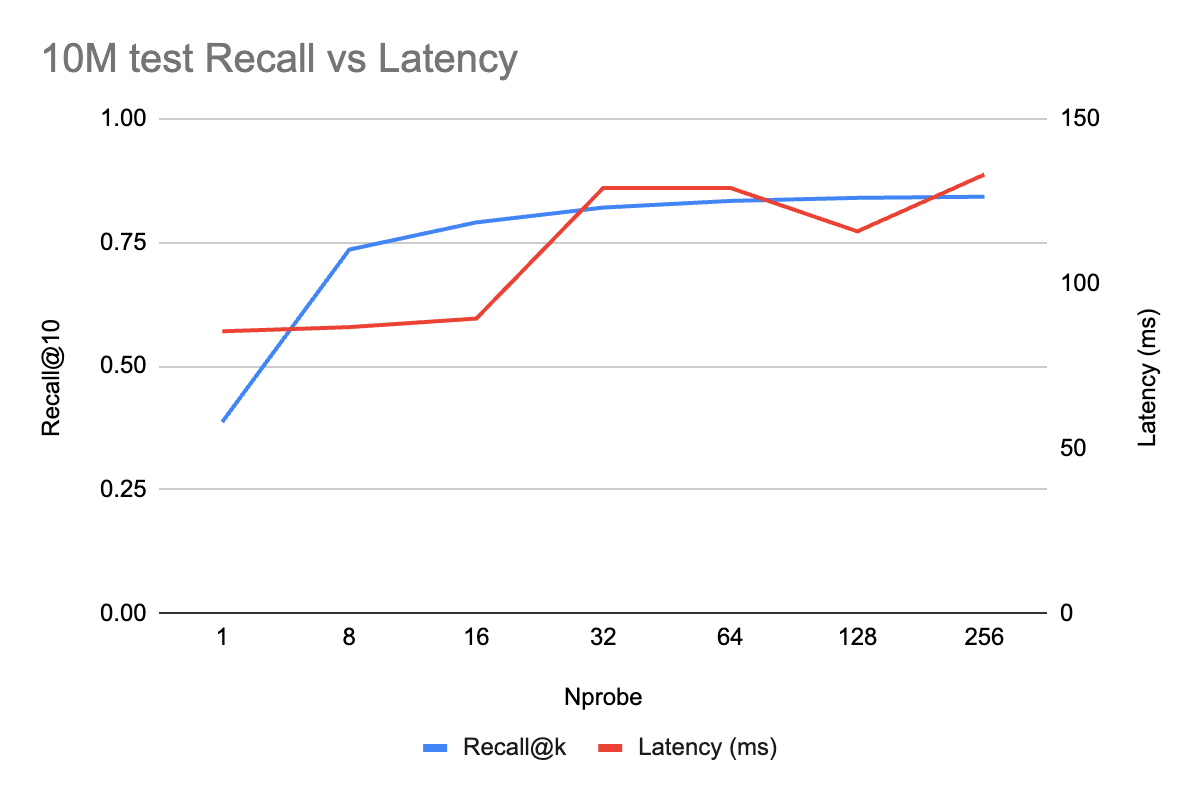
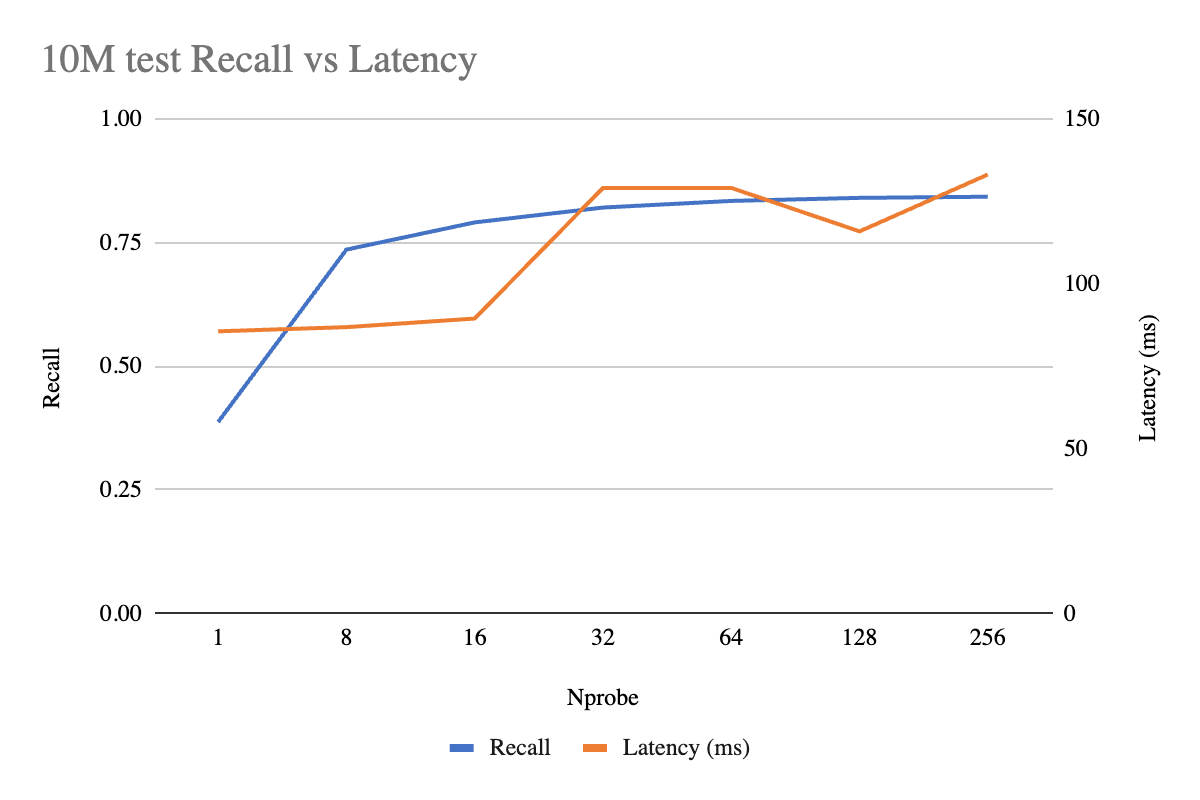
update blog

diff --git a/cgo/cuvs/blog.md b/cgo/cuvs/blog.md
@@ -10,7 +10,7 @@ Our target was an IVF index with thousands of clusters holding tens of millions 
 
 1. **Clustering Latency**: Standard K-Means was slow and often produced unbalanced clusters, leading to "hotspots" that slowed down search.
 2. **Assignment Overhead**: Mapping 50M+ vectors to their nearest centroids is computationally expensive. On CPUs, this task competed for resources with data loading and decompression, dragging the process out to a full day.
-3. **Filtered Search Penalty**: Real SQL workloads rarely query a vector index in isolation — they look like *"top-10 nearest passages **where `file_id = X`**"*. The straightforward implementation is **file-based filtering**: for every incoming query, re-read the filter columns from object storage to evaluate the predicate. At tens of millions of rows, that turns each query into a storage-bound job — disk/network I/O dominates and GPU search throughput collapses long before the index itself is the bottleneck. Compounding this, the "search first, filter later" pattern wastes GPU cycles ranking rows the predicate will discard and forces deeper `nprobe` sweeps to refill `top-k` after filtering.
+3. **Filtered Search Penalty**: Real SQL workloads rarely query a vector index in isolation — they look like *"top-20 nearest passages **where `file_attribute = X`**"*. The straightforward implementation is **file-based filtering**: for every incoming query, re-read the filter columns from object storage to evaluate the predicate. At tens of millions of rows, that turns each query into a storage-bound job — disk/network I/O dominates and GPU search throughput collapses long before the index itself is the bottleneck. Compounding this, the "search first, filter later" pattern wastes GPU cycles ranking rows the predicate will discard and forces deeper `nprobe` sweeps to refill `top-k` after filtering.
 
 ## Hardware & Methodology
 
@@ -18,14 +18,14 @@ Before walking through the engineering, here is the explicit setup so the number
 
 **Hardware (all benchmarks run on AWS `g6e`, NVIDIA L40S):**
 
-| | CPU baseline (IVF-Flat search) | GPU (IVF-PQ, 1M / 10M) | GPU (IVF-PQ, 88M) |
-|---|---|---|---|
-| AWS instance | `g6e.16xlarge` | `g6e.12xlarge` | `g6e.48xlarge` |
-| vCPU / host RAM | 64 vCPU / 512 GB | 48 vCPU / 384 GB | 192 vCPU / 1536 GB |
-| GPU | 1× L40S (48 GB) — *build only* | 1× L40S (48 GB) | 8× L40S (sharded) |
-| Search runs on | **CPU** | **GPU** | **GPU** |
+| | IVF-Flat (all scales) / IVF-PQ (1M, 10M) | IVF-PQ (88M) |
+|---|---|---|
+| AWS instance | `g6e.16xlarge` | `g6e.48xlarge` |
+| vCPU / host RAM | 64 vCPU / 512 GB | 192 vCPU / 1536 GB |
+| GPU | 1× L40S (48 GB) | 8× L40S (sharded) |
+| Search runs on | **GPU** | **GPU** |
 
-For every IVF-Flat search number we report, **search runs on the CPU** even when the index was *built* on the GPU — that is the apples-to-apples "CPU search" baseline against which the GPU IVF-PQ numbers should be read. IVF-PQ runs **end-to-end on the GPU**.
+In this revision both index types are **served on the GPU** — that is the apples-to-apples comparison we now report. IVF-Flat at 88M cannot fully fit in 48 GB of VRAM (~270 GB raw `float32`), so it relies on host-resident lists with the GPU pulling pages on demand; the bandwidth of that path is what limits its 88M throughput, while IVF-PQ's compressed footprint (~17 GB sharded across 8 GPUs) fits entirely in on-device memory. The CPU-only IVF-Flat numbers from earlier rounds of this benchmark are still reported separately as a build-time baseline.
 
 ## Step 1: Solving Clustering with Balanced K-Means
 
@@ -61,24 +61,24 @@ We leverage the **RAFT** library to manage long-lived `raft::resources`. By cach
 
 ## Step 5: Pushing SQL Predicates Down — Filtered Search Inside cuVS
 
-A vector index is rarely queried in isolation. Real workloads look like *"find the top-10 nearest passages **where `file_id = X`**"*. The naive approach — search first, filter later — wastes GPU cycles ranking candidates that the optimizer is about to throw away, and forces deep `nprobe` sweeps just to backfill `top-k` after filtering.
+A vector index is rarely queried in isolation. Real workloads look like *"find the top-20 nearest passages **where `file_attribute = X`**"*. The naive approach — search first, filter later — wastes GPU cycles ranking candidates that the optimizer is about to throw away, and forces deep `nprobe` sweeps just to backfill `top-k` after filtering.
 
 cuVS supports **pre-filtering via a predicate bitset**, and we wired it directly into the MatrixOne query pipeline:
 
-1. We keep the **filter columns resident in RAM** (e.g., `file_id`, score columns referenced by predicates), avoiding per-query disk reads.
-2. The SQL planner extracts the predicate (e.g., `file_id = 20000007`) and the **CPU computes a packed bitset** in RAM — 1 bit per indexed vector — by scanning the in-RAM column. This is dramatically cheaper than the alternative of file-based filtering, where each query would re-read the column from storage.
+1. We keep the **filter columns resident in RAM** (e.g., `file_attribute`, score columns referenced by predicates), avoiding per-query disk reads.
+2. The SQL planner extracts the predicate (e.g., `file_attribute = 20000007`) and the **CPU computes a packed bitset** in RAM — 1 bit per indexed vector — by scanning the in-RAM column. This is dramatically cheaper than the alternative of file-based filtering, where each query would re-read the column from storage.
 3. The bitset is handed to cuVS, which consults it during graph traversal / list scanning so the GPU skips disqualified vectors before distance computation.
 4. The CAGRA / IVF-PQ kernel returns only `top-k` results that already satisfy the predicate — no post-hoc reranking pass.
 
-The bitset itself stays in host RAM; only the index data lives on the GPU. The combination — RAM-resident filter columns plus CPU-computed bitsets driving GPU pre-filtering — sidesteps both disk I/O and wasted GPU work. The 88M numbers below show the payoff concretely: under SQL pre-filtering, GPU-enhanced IVF-Flat (which has to filter on the CPU *after* search) drops to **~3 QPS at recall 0.80** and tops out at ~12 QPS at lower recall, while pure-GPU IVF-PQ with bitset pre-filtering holds **~80–98 QPS** across `nprobe`.
+The bitset itself stays in host RAM; only the index data lives on the GPU. The combination — RAM-resident filter columns plus CPU-computed bitsets driving GPU pre-filtering — sidesteps both disk I/O and wasted GPU work. The 88M numbers below show the payoff concretely: with bitset pre-filtering, **IVF-PQ is the only index in the sweep that holds recall ≥ 0.80** under the predicate (0.81 @ 80 QPS), while IVF-Flat trades recall for throughput (peaking at 273 QPS at recall 0.59) but cannot reach the 0.80 bar at any tested `nprobe`.
 
-## Head-to-Head: CPU IVF-Flat vs. GPU-Enhanced IVF-Flat vs. Pure-GPU IVF-PQ
+## Head-to-Head: GPU IVF-Flat vs. GPU IVF-PQ
 
-To quantify the value of pushing *both build and search* onto the GPU (IVF-PQ) versus only accelerating the build pipeline (IVF-Flat with CPU-side search), we benchmarked both on AWS `g6e` instances using NVIDIA L40S GPUs across three scales of the `wiki_all` dataset (1M, 10M, 88M @ 768-D, top-10, concurrency = 100, n = 10000 queries).
+To quantify what we gain from end-to-end GPU acceleration plus PQ compression (IVF-PQ) versus serving raw `float32` vectors from a GPU-built IVF-Flat index, we benchmarked both on AWS `g6e` instances using NVIDIA L40S GPUs across three scales of the `wiki_all` dataset (1M, 10M, 88M @ 768-D, top-20, concurrency = 100, n = 10000 queries).
 
 ### Parameter Tuning: How We Chose `nprobe` and `pq_bits`
 
-Before showing the head-to-head numbers, it's worth explaining how the parameters in those tables were picked. Two questions need answers for each index family: *how do we pick `nprobe`*, and (for IVF-PQ) *how aggressive can the quantization be*? We tuned on the 10M slice — large enough to be representative, cheap enough to sweep — targeting **recall ≈ 0.80 @ top-10**, then validated the chosen setting at 88M.
+Before showing the head-to-head numbers, it's worth explaining how the parameters in those tables were picked. Two questions need answers for each index family: *how do we pick `nprobe`*, and (for IVF-PQ) *how aggressive can the quantization be*? We tuned on the 10M slice — large enough to be representative, cheap enough to sweep — targeting **recall ≈ 0.80 @ top-20**, then validated the chosen setting at 88M.
 
 #### IVF-PQ: `pq_bits = 8`, `nprobe = 16`
 
@@ -88,7 +88,7 @@ We ran a Pareto sweep over `nprobe ∈ {1, 8, 16, 32, 64, 128, 256}`:
 
 The curve shows a classic IVF knee: recall climbs steeply until `nprobe = 16` (0.79), then flattens — beyond that, each doubling of `nprobe` adds at most ~1 point of recall but latency starts to drift up. **`nprobe = 16` is the Pareto-optimal point** for our 0.80 recall target.
 
-Next, can more aggressive PQ compression hold that target? We swept `pq_bits ∈ {8, 7, 6}` at the same `nprobe` ladder (10M, top-10, concurrency=100, n=10000):
+Next, can more aggressive PQ compression hold that target? We swept `pq_bits ∈ {8, 7, 6}` at the same `nprobe` ladder (10M, top-20, concurrency=100, n=10000):
 
 | `nprobe` | `pq_bits=8` Recall | `pq_bits=7` Recall | `pq_bits=6` Recall |
 |---|---|---|---|
@@ -110,69 +110,95 @@ The 88M curve shows the same knee: recall hits 0.83 at `nprobe = 16` (~125 ms), 
 
 #### IVF-Flat: `lists = 10000`, `nprobe = 8` to match the recall target
 
-IVF-Flat has no quantization knob — vectors are stored uncompressed in `float32` — so the only tunables are cluster count (`lists`) and `nprobe`. We set `lists = 10000` for the 88M index (≈ √N, the standard heuristic) and tuned `nprobe` to hit the same recall target as IVF-PQ (~0.8 @ top-10). On the 10M slice this lands at **`nprobe = 8`** (recall 0.82) — half the probes IVF-PQ needs for the same recall, since IVF-Flat keeps full-precision vectors. We use the same setting at 88M and report two higher points to span the curve:
+IVF-Flat has no quantization knob — vectors are stored uncompressed in `float32` — so the only tunables are cluster count (`lists`) and `nprobe`. We set `lists = 10000` for the 88M index (≈ √N, the standard heuristic) and tuned `nprobe` to hit the same recall target as IVF-PQ (~0.8 @ top-20). On the 10M slice this lands at **`nprobe = 8`** (recall 0.82) — half the probes IVF-PQ needs for the same recall, since IVF-Flat keeps full-precision vectors. We use the same setting at 88M and report two higher points to span the curve:
 
-| `nprobe` | Recall@10 | QPS |
+| `nprobe` | Recall@20 | QPS |
 |---|---|---|
-| **8**   | **0.76** | **22** |
-| 16  | 0.91 | 10 |
-| 32  | 0.96 | 4  |
+| **8**   | **0.77** | **188** |
+| 16  | 0.89 | 129 |
+| 32  | 0.92 | 114 |
 
-(88M `wiki_all`, no filter, top-10, concurrency=100, n=10000.)
+(88M `wiki_all`, no filter, top-20, concurrency=100, n=10000.)
 
-Unlike IVF-PQ there is no flat region: every additional probe pulls more cluster pages off disk — the 270 GB raw dataset doesn't fit in the ~256 GB usable cache (see the cache-miss analysis below) — so QPS roughly halves at each step. At 88M the recall target slips: `nprobe = 8` matches IVF-PQ at smaller scales but only reaches 0.76 recall here, because each cluster gets fewer probes relative to the index size. Pushing `nprobe` higher recovers recall but at a steep QPS cost — there is no sweet spot, only a recall-vs-throughput dial. The head-to-head below uses `nprobe ∈ {8, 16, 32}` for IVF-Flat to span the full curve.
+Unlike IVF-PQ there is no flat region: every additional probe pulls more cluster pages off the host — the 270 GB raw `float32` dataset is too large to live in 48 GB of VRAM, so each probe costs a host-to-device transfer — and QPS drops monotonically as `nprobe` grows. At 88M the recall target slips slightly: `nprobe = 8` matches IVF-PQ at smaller scales but only reaches 0.77 recall here, because each cluster gets fewer probes relative to the index size. Pushing `nprobe` higher recovers recall, but throughput keeps falling — there is no sweet spot, only a recall-vs-throughput dial. The head-to-head below uses `nprobe ∈ {8, 16, 32}` for IVF-Flat to span the full curve.
 
 ### Build Time
 
-| Dataset | IVF-Flat (CPU build) | IVF-Flat (GPU build, CPU search) | IVF-PQ (Pure GPU) | Speedup (CPU vs IVF-PQ) |
+| Dataset | IVF-Flat (CPU build) | IVF-Flat (GPU build) | IVF-PQ (GPU build) | Speedup (CPU vs IVF-PQ) |
 |---|---|---|---|---|
-| 1M | 58 s | 29 s | 45 s | 1.3x |
-| 10M | 19 min | 4 min 26s | 4 min 21 s | 4.4x |
-| **88M** | **4 h 8 min** | **62 min** | **1 h 12 min** | **~3.4x** |
+| 1M | 36 s | 15 s | 47 s | 0.8× |
+| 10M | 1 min 32 s | 2 min 12 s | 7 min 32 s | 0.2× |
+| **88M** | **6 h 23 min** | **20 min** | **50 min** | **~7.7×** |
 
-At small scale, IVF-Flat's simpler build wins. At **88M vectors, IVF-Flat (GPU) and IVF-PQ builds are ~3-4× faster than the CPU build** — turning an overnight job into a coffee break.
+At 1M and 10M, the CPU build is competitive (or faster) — IVF-PQ pays a fixed PQ-codebook training cost that only amortizes once the dataset is large. At **88M vectors the picture inverts decisively: GPU IVF-PQ is ~7–8× faster than CPU IVF-Flat, and GPU IVF-Flat is ~19× faster** — turning an overnight job into a coffee break.
 
-### Search Throughput (no filter, top-10)
+### Search Throughput (no filter, top-20)
 
 **Recall-matched headline** — IVF-Flat `nprobe=8` vs IVF-PQ `nprobe=16`, both tuned to land near the same recall target (~0.8 on the 10M slice):
 
 | Dataset | IVF-Flat (`nprobe=8`) | IVF-PQ (`nprobe=16`) | IVF-PQ vs IVF-Flat |
 |---|---|---|---|
 | 1M | 768 QPS, recall 0.86 | 904 QPS, recall 0.82 | 1.2× |
-| 10M | 491 QPS, recall 0.82 | 1066 QPS, recall 0.79 | 2.2× |
-| **88M** | **22 QPS, recall 0.76** | **759 QPS, recall 0.83** | **~35×** |
+| 10M | 645 QPS, recall 0.82 | 1066 QPS, recall 0.79 | 1.7× |
+| **88M** | **188 QPS, recall 0.77** | **759 QPS, recall 0.83** | **~4.0×** |
 
 **Full `nprobe` sweep** — same setup, each index across `nprobe ∈ {8, 16, 32}`:
 
 | Dataset | Nprobe | IVF-Flat Recall | IVF-Flat QPS | IVF-PQ Recall | IVF-PQ QPS |
 |---|---|---|---|---|---|
 | 1M | 8 | 0.86 | 768 | 0.78 | 1060 |
-| 1M | 16 | 0.93 | 937 | 0.82 | 904 |
-| 1M | 32 | 0.99 | 384 | 0.84 | 889 |
-| 10M | 8 | 0.82 | 491 | 0.74 | 1099 |
-| 10M | 16 | 0.90 | 408 | 0.79 | 1066 |
-| 10M | 32 | 0.95 | 243 | 0.82 | 756 |
-| 88M | 8 | 0.76 | 22 | 0.79 | 776 |
-| 88M | 16 | 0.91 | 10 | 0.83 | 759 |
-| 88M | 32 | 0.96 | 4 | 0.85 | 260 |
+| 1M | 16 | 0.93 | 860 | 0.82 | 904 |
+| 1M | 32 | 0.97 | 705 | 0.84 | 889 |
+| 10M | 8 | 0.82 | 645 | 0.74 | 1099 |
+| 10M | 16 | 0.90 | 461 | 0.79 | 1066 |
+| 10M | 32 | 0.95 | 313 | 0.82 | 756 |
+| 88M | 8 | 0.77 | 188 | 0.79 | 776 |
+| 88M | 16 | 0.89 | 129 | 0.83 | 759 |
+| 88M | 32 | 0.92 | 114 | 0.85 | 260 |
 
-### Search Throughput Under SQL Pre-Filter (88M, top-10)
+### Search Throughput Under SQL Pre-Filter (top-20)
+
+All three datasets, `file_attribute = 20000007` evaluated as a bitset before distance computation, top-20, concurrency=100, n=10000.
+
+**1M:**
 
 | Nprobe | IVF-Flat Recall | IVF-Flat QPS | IVF-PQ Recall | IVF-PQ QPS |
 |---|---|---|---|---|
-| 8 | 0.61 | 11.9 | 0.69 | **98.0** |
-| 16 | 0.76 | 12 | 0.77 | 98.0 |
-| 32 | 0.80 | 3 | 0.81 | 80 |
+| 8 | 0.68 | **1220** | 0.70 | 864 |
+| 16 | 0.76 | 1033 | 0.78 | 684 |
+| 32 | 0.82 | 779 | **0.83** | 649 |
 
-This is the bitset pre-filtering payoff: IVF-PQ holds **~80–98 QPS** across `nprobe` while IVF-Flat must push `nprobe` up to recover the recall it loses to post-search filtering — and pays for it. At the matched-recall setting (~0.80, `nprobe=32` for IVF-Flat vs `nprobe=32` for IVF-PQ), pure-GPU IVF-PQ delivers **~27× higher QPS** because the GPU never spends a cycle on rows the SQL predicate already rejected.
+**10M:**
+
+| Nprobe | IVF-Flat Recall | IVF-Flat QPS | IVF-PQ Recall | IVF-PQ QPS |
+|---|---|---|---|---|
+| 8 | 0.64 | **853** | 0.76 | 341 |
+| 16 | 0.74 | 532 | 0.74 | 356 |
+| 32 | **0.80** | 230 | **0.80** | 330 |
+
+**88M:**
+
+| Nprobe | IVF-Flat Recall | IVF-Flat QPS | IVF-PQ Recall | IVF-PQ QPS |
+|---|---|---|---|---|
+| 8 | 0.59 | **273** | 0.69 | 97 |
+| 16 | 0.68 | 170 | 0.77 | 98 |
+| 32 | 0.75 | 111 | **0.81** | 80 |
+
+The trade-off is scale-dependent:
+
+* **At 1M**, both indexes fit comfortably on the GPU and IVF-Flat dominates on raw QPS (1220 vs 864 at `nprobe=8`) while staying within ~2 points of IVF-PQ on recall. If your dataset is small, IVF-Flat is the clear pick under filters.
+* **At 10M**, the lines cross. IVF-Flat is faster at low `nprobe` but cannot reach recall 0.80 without going to `nprobe=32`, where IVF-PQ catches and overtakes it (330 vs 230 QPS at matched recall 0.80).
+* **At 88M**, the trade-off becomes the one we described in the unfiltered case, just compressed: IVF-Flat is faster per probe (273 → 111 QPS) because the predicate strips most of the host-to-device transfer cost, but it cannot reach 0.80 recall in the tested sweep. IVF-PQ holds **0.69 → 0.77 → 0.81 recall at a steady ~80–98 QPS** and is the only index that clears the recall bar.
+
+So the recommendation under filters: **IVF-Flat below ~10M, IVF-PQ above** — or wherever the workload demands recall ≥ 0.80.
 
 ### What the Numbers Tell Us
 
-* **At 88M vectors and recall ~0.8, pure-GPU IVF-PQ is ~35× faster than GPU-enhanced IVF-Flat** (759 QPS @ `nprobe=16`, recall 0.83 vs 22 QPS @ `nprobe=8`, recall 0.76), and the gap widens dramatically as IVF-Flat is pushed for higher recall — reaching **~75×** at `nprobe=16` (759 vs 10 QPS) and **~65×** at `nprobe=32` (260 vs 4 QPS) — because each additional probe sends IVF-Flat further into uncached cluster pages on disk (see cache-miss analysis below).
-* **Recall stability**: IVF-PQ recall climbs gently with `nprobe` (0.79 → 0.85 from 8 to 32 at 88M), while IVF-Flat must work much harder for the same gain (0.76 → 0.96) and pays a 5× QPS penalty doing it. That makes IVF-PQ much easier to tune for production SLOs.
-* **Filtered queries are where IVF-Flat collapses**: with bitset pre-filtering inside cuVS, IVF-PQ holds ~80–98 QPS under predicates across `nprobe`; IVF-Flat's CPU-side filter pass forces the index deeper to refill `top-k`, dragging QPS from ~12 down to ~3 as `nprobe` climbs from 8 to 32.
-* **Why IVF-Flat's 88M numbers are so low — memory cache misses**: at 768-D `float32`, 88M vectors are **~270 GB** of raw vector data. The host has 512 GB RAM, but after the OS and the database engine itself, only **~256 GB is actually free for the data cache** — so the working set doesn't fit. As `nprobe` grows, IVF-Flat touches more cluster lists per query, the cache miss rate climbs, and search degrades from a memory-bound workload into a **disk-IO-bound** one — which is why QPS drops from 22 → 10 → 4 (no filter) and 12 → 12 → 3 (filtered) as `nprobe` goes from 8 → 32. IVF-PQ avoids this entirely: with `M=192, bits=8`, the 88M index is ~17 GB compressed and fits comfortably across 8 sharded GPUs at ~3.5 GB VRAM each — every probe is served from on-device memory, never the disk.
-* **IVF-Flat still wins for small datasets and recall-critical workloads** (e.g., 1M with `nprobe=32` reaches 0.99 recall). IVF-PQ trades ~10–15 points of recall for an order of magnitude of throughput at scale.
+* **At 88M vectors and recall ~0.8, pure-GPU IVF-PQ is ~4× faster than GPU IVF-Flat** at the recall-matched setting (759 QPS @ `nprobe=16`, recall 0.83 vs 188 QPS @ `nprobe=8`, recall 0.77). The gap widens as IVF-Flat is pushed for higher recall — IVF-PQ stays at ~750 QPS while IVF-Flat falls to 129 QPS at `nprobe=16` (~5.9×) and 114 QPS at `nprobe=32` (~2.3× before IVF-PQ also drops at `nprobe=32` once it falls off its flat region).
+* **Recall stability**: IVF-PQ recall climbs gently with `nprobe` (0.79 → 0.85 from 8 to 32 at 88M), while IVF-Flat moves through a wider band (0.77 → 0.92) but pays a ~40% QPS penalty to reach the top of it. IVF-PQ is the easier dial to set for production SLOs because it holds throughput nearly flat across a 4× range of `nprobe`.
+* **Filtered queries: scale flips the answer.** With bitset pre-filtering inside cuVS, IVF-Flat dominates QPS at 1M and 10M (1220 / 853 QPS at `nprobe=8`) and only narrowly trails IVF-PQ on recall there. By 88M the lines invert: IVF-Flat is still faster per probe (273 → 111 QPS) but cannot reach 0.80 recall in the tested sweep, while IVF-PQ holds 0.69 → 0.77 → 0.81 recall at a steady ~80–98 QPS. **Below ~10M, IVF-Flat is the right filtered index; above, IVF-PQ is the only one that clears recall ≥ 0.80.**
+* **Why IVF-Flat's 88M ceiling sits where it does — VRAM, not disk**: at 768-D `float32`, 88M vectors are **~270 GB** of raw vector data. That's ~5.6× the 48 GB VRAM of a single L40S, so the bulk of the index has to live on the host and stream into the GPU per query. As `nprobe` grows, more cluster lists ride that PCIe path and throughput falls. IVF-PQ avoids this entirely: with `M=192, bits=8`, the 88M index is ~17 GB compressed and fits comfortably across 8 sharded GPUs at ~3.5 GB VRAM each — every probe is served from on-device memory.
+* **IVF-Flat still wins for small datasets and recall-critical workloads** (e.g., 1M with `nprobe=32` reaches 0.97 recall at 705 QPS, vs IVF-PQ's 0.84 at 889 QPS). IVF-PQ trades a few points of recall for steady throughput at scale; IVF-Flat trades steady throughput for the option of pushing recall to the limit.
 
 ### Setup
 
@@ -182,8 +208,8 @@ This is the bitset pre-filtering payoff: IVF-PQ holds **~80–98 QPS** across `n
 | PQ Params | BITS_PER_CODE 8, M 192 | BITS_PER_CODE 8, M 192 | — |
 | Quantization | f32 / f16 | f16 | f32 |
 | GPU | 1× L40S (48 GB) | 8× L40S (sharded) | 1× L40S (48 GB) |
-| Instance | `g6e.12xlarge` | `g6e.48xlarge` | `g6e.16xlarge` |
-| Host RAM / usable DB cache | — | — | 512 GB / ~256 GB |
+| Instance | `g6e.16xlarge` | `g6e.48xlarge` | `g6e.16xlarge` |
+| Host RAM / usable DB cache | 512 GB / ~256 GB | — | 512 GB / ~256 GB |
 
 The 88M IVF-PQ deployment runs **sharded across 8 GPUs at ~3.5 GB VRAM each** — well under the 48 GB per-GPU budget — leaving headroom for concurrent workloads.
 
@@ -202,4 +228,4 @@ Our architecture now supports a suite of high-performance indexes, each with a c
 
 By shifting clustering, assignment, quantization — *and search, including SQL predicate evaluation* — onto the GPU through cuVS, MatrixOne handles massive vector datasets on surprisingly modest hardware. What once took a full day now takes well under an hour, with search latencies that remain low under heavy concurrency.
 
-The benchmark on `wiki_all` is unambiguous: at 88M vectors, **pure-GPU IVF-PQ delivers ~3–4× faster builds, ~35–75× higher unfiltered QPS (depending on `nprobe`), and up to ~27× higher filtered QPS at matched recall** than GPU-assisted IVF-Flat with CPU search — at recall levels production workloads can ship with. Combined with `cuvs_worker_t` and bitset pre-filtering, this is not just a "fast index" but a **production-ready database engine** that scales with the demands of modern AI.
+The benchmark on `wiki_all` is unambiguous: at 88M vectors, **pure-GPU IVF-PQ builds ~7–8× faster than CPU IVF-Flat, delivers ~4–6× higher unfiltered QPS than GPU IVF-Flat at recall ~0.8, and is the only index that holds recall ≥ 0.80 once SQL pre-filtering is in play at that scale**. Below ~10M, IVF-Flat keeps the throughput crown for both filtered and unfiltered workloads. Combined with `cuvs_worker_t` and bitset pre-filtering, this is not just a "fast index" but a **production-ready database engine** that scales with the demands of modern AI.